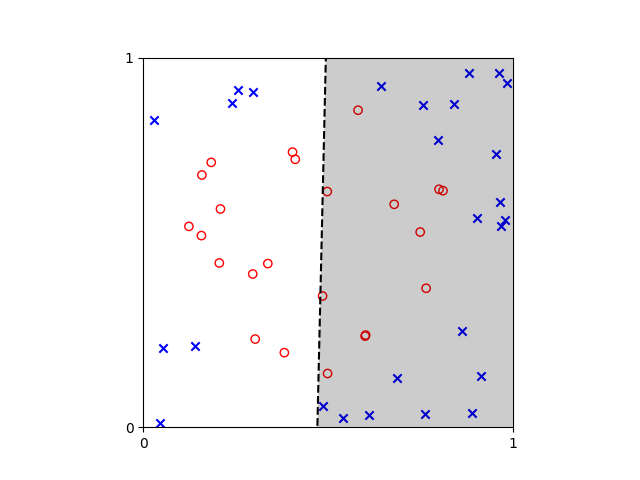
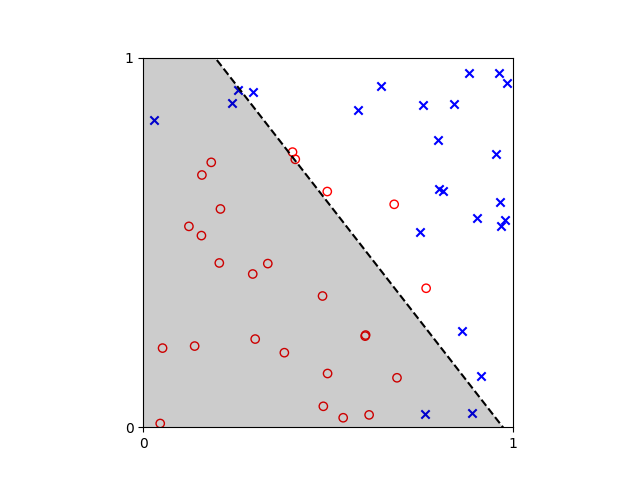
Implemented Examples

diff --git a/scripts/oil.py b/scripts/oil.py
@@ -1,9 +1,10 @@
 import matplotlib.pyplot as plt
 import numpy as np
+from scipy.optimize import least_squares
 
-a = 0.5
-b = 0.5
-r = 0.4
+a = 0.3
+b = 0.3
+r = 0.5
 
 n = 50
 
@@ -24,7 +25,7 @@ for i in range(n):
         X_train[0, i] = point[0]
         X_train[1, i] = point[1]
         y_train[i] = 1
-    
+
     else:
         bluesx.append(point[0])
         bluesy.append(point[1])
@@ -32,7 +33,7 @@ for i in range(n):
         X_train[1, i] = point[1]
         y_train[i] = -1
 
-theta =  np.linspace(0, 2*np.pi, 100)
+theta = np.linspace(0, 2*np.pi, 100)
 x = r*np.cos(theta) + a
 y = r*np.sin(theta) + b
 plt.fill_between(x, y, color='black', edgecolor='none', alpha=0.2)
@@ -40,26 +41,109 @@ plt.scatter(redsx, redsy, color='none', edgecolors='red')
 plt.scatter(bluesx, bluesy, color='blue', marker='x')
 plt.plot(x, y, 'k--')
 plt.axis('square')
-plt.xticks([0,1])
+plt.xticks([0, 1])
 plt.yticks([0, 1])
-plt.xlim([0,1])
-plt.ylim([0,1])
+plt.xlim([0, 1])
+plt.ylim([0, 1])
 plt.savefig('figures/oil_wells.png')
+plt.clf()
 
 X_aug = np.vstack([X_train, np.ones(X_train.shape[1])])
 X_aug
 a = y_train@np.linalg.pinv(X_aug)
 a
 
-x = np.linspace(0,1,100)
+x = np.linspace(0, 1, 100)
 y = (-a[0]*x-a[2])/a[1]
 plt.scatter(redsx, redsy, color='none', edgecolors='red')
 plt.scatter(bluesx, bluesy, color='blue', marker='x')
 plt.fill_between(x, y, color='black', edgecolor='none', alpha=0.2)
 plt.plot(x, y, 'k--')
 plt.axis('square')
-plt.xticks([0,1])
+plt.xticks([0, 1])
 plt.yticks([0, 1])
-plt.xlim([0,1])
-plt.ylim([0,1])
+plt.xlim([0, 1])
+plt.ylim([0, 1])
 plt.savefig('figures/linear_oil.png')
+plt.clf()
+
+
+dummy = []
+for y in y_train:
+    if y == 1:
+        dummy.append([1, 0])
+    else:
+        dummy.append([0, 1])
+
+y_train = dummy
+
+
+def sigmoid(X):
+    return 1/(1+np.exp(X))
+
+
+def predict(theta):
+    W1 = np.array(theta[:4]).reshape(2, 2)
+    b1 = np.array(theta[4:6])
+    W2 = np.array(theta[6:12]).reshape(2, 3)
+    b2 = np.array(theta[12:15])
+    W3 = np.array(theta[15:21]).reshape(3, 2)
+    b3 = np.array(theta[21:23])
+    W4 = np.array(theta[23:27]).reshape(2, 2)
+    b4 = np.array(theta[27:29])
+
+    A = X_train.T
+
+    A = sigmoid(A@W1 + b1)
+    A = sigmoid(A@W2 + b2)
+    A = sigmoid(A@W3 + b3)
+    A = sigmoid(A@W4 + b4)
+
+    return A
+
+
+def res(theta):
+    return (predict(theta) - y_train).flatten()
+
+
+theta0 = list(np.random.randn(29))
+theta_trained = least_squares(res, theta0).x
+
+n = 1000
+x_range = np.linspace(0, 1, n)
+y_range = np.linspace(0, 1, n)
+
+
+def landscape(theta):
+    W1 = np.array(theta[:4]).reshape(2, 2)
+    b1 = np.array(theta[4:6])
+    W2 = np.array(theta[6:12]).reshape(2, 3)
+    b2 = np.array(theta[12:15])
+    W3 = np.array(theta[15:21]).reshape(3, 2)
+    b3 = np.array(theta[21:23])
+    W4 = np.array(theta[23:27]).reshape(2, 2)
+    b4 = np.array(theta[27:29])
+
+    X, Y = np.meshgrid(x_range, y_range)
+
+    A = np.array([[x, y] for x, y in zip(X.flatten(), Y.flatten())])
+
+    A = sigmoid(A@W1 + b1)
+    A = sigmoid(A@W2 + b2)
+    A = sigmoid(A@W3 + b3)
+    A = sigmoid(A@W4 + b4)
+
+    return np.sign(A[:, 0] - A[:, 1]).reshape(n, n)
+
+
+plt.contourf(x_range, y_range, -landscape(theta_trained), cmap='gray', alpha=0.2)
+plt.contour(x_range, y_range, landscape(theta_trained), linestyles='dashed', colors='black')
+plt.scatter(redsx, redsy, color='none', edgecolors='red')
+plt.scatter(bluesx, bluesy, color='blue', marker='x')
+plt.axis('square')
+plt.xticks([0, 1])
+plt.yticks([0, 1])
+plt.xlim([0, 1])
+plt.ylim([0, 1])
+plt.savefig('figures/sigmoid_oil.png')
+plt.clf()

diff --git a/Req/perceptron.py b/Req/perceptron.py
@@ -22,10 +22,6 @@ def load_digits_data():
     return ((x_train, y_train), (x_test, y_test))
 
 
-def sigmoid(X):
-    return 1/(1+np.exp(X))
-
-
 def leakyReLU(X):
     return np.where(X >= 0, X, X * 0.01)
 
@@ -215,12 +211,3 @@ class LeakyReLUSoftmaxCCE(MLP):
             history['test_loss'].append(self.loss(x_test, y_test))
 
         return history
-
-
-class SigmoidLS(MLP):
-
-    def __init__(self, in_shape, out_shape, layer_sizes):
-        super().__init__(in_shape, out_shape, sigmoid, sigmoid, layer_sizes)
-    
-    def loss(self, X, Y):
-        return np.mean(np.linalg.norm(self.predict(X) - Y, axis=1))
